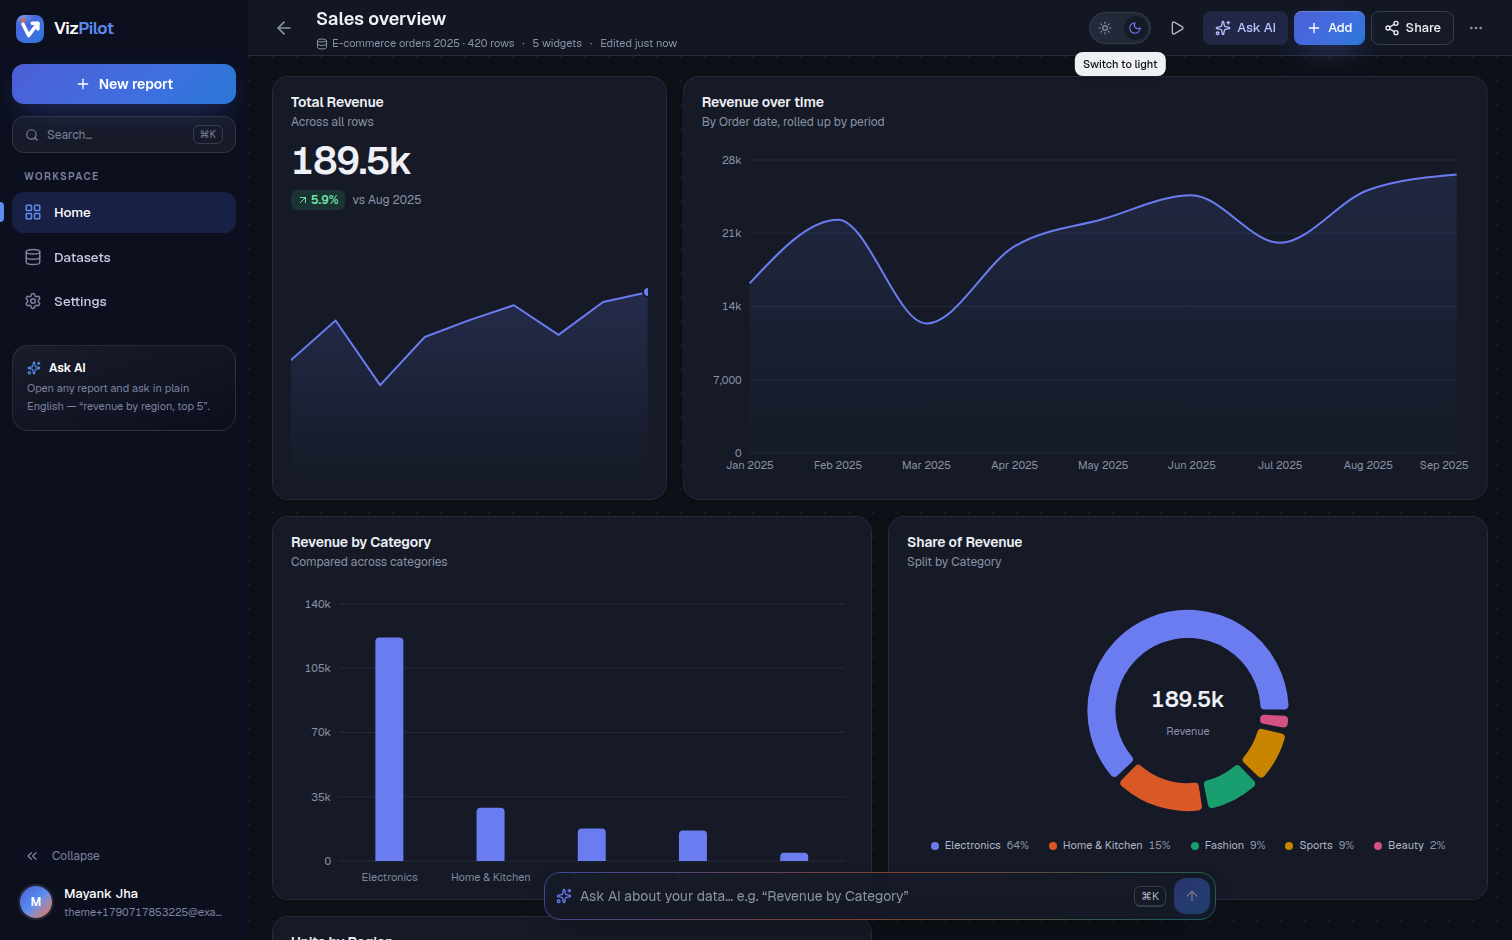
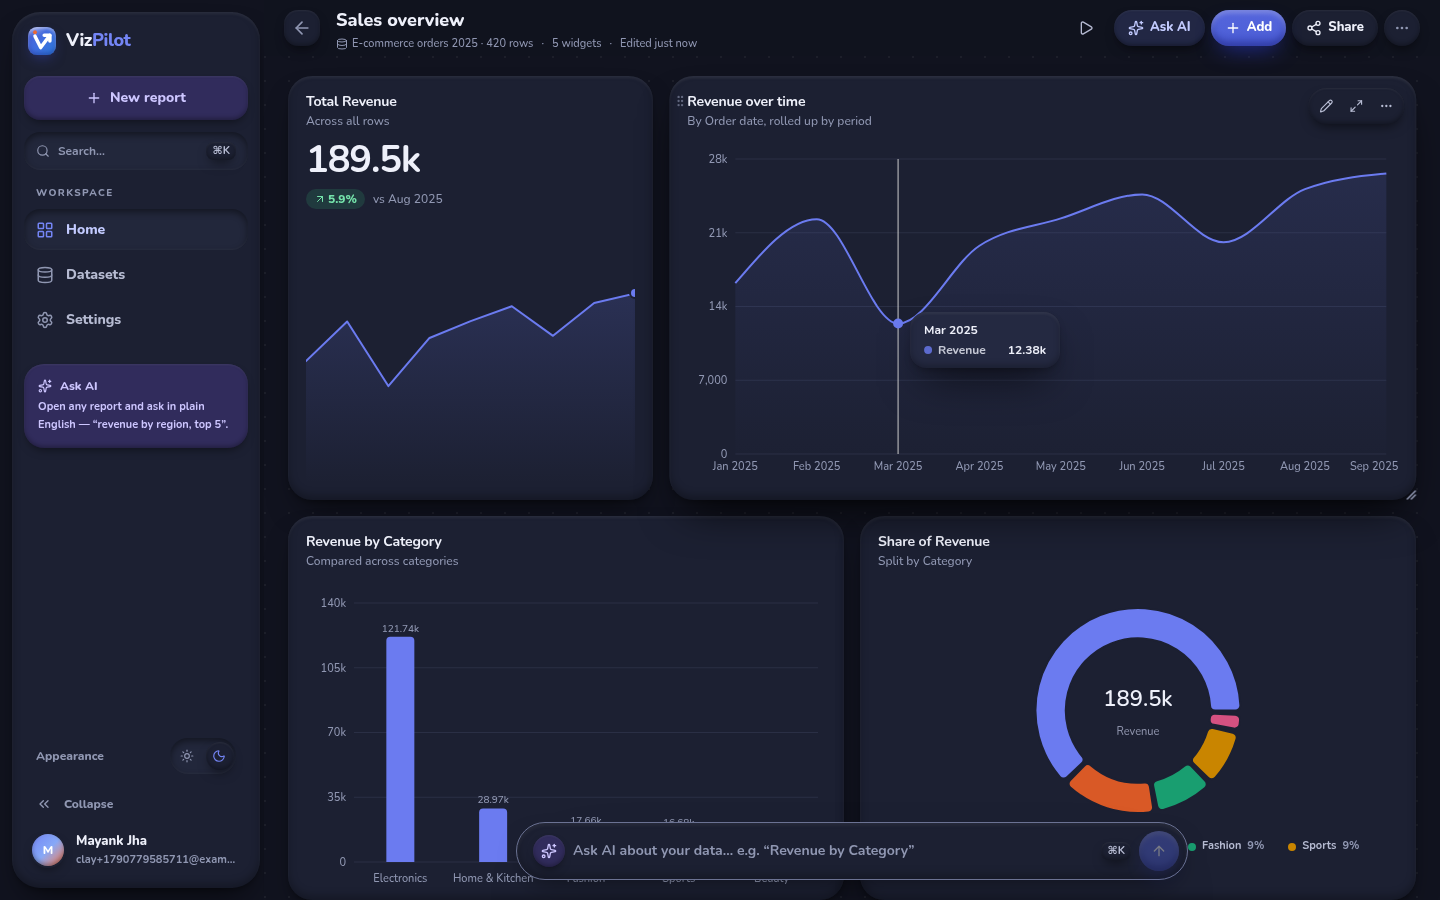
Update README for the clay design and app-wide dark mode
- New demo clips and light/dark screenshots in the clay design
- Documents the app theme (Light / Dark / System) vs the per-report viewer theme
- Adds a 'clay design system' section (shadow recipe, rules, tokens, accessibility)
- Updates the stack (Nunito, jose token check) and Vercel troubleshooting notes

diff --git a/README.md b/README.md
@@ -4,7 +4,7 @@
 
 **Ask your data a question. Watch the dashboard build itself.**
 
-Drop in a CSV, paste a table or pick a sample. VizPilot's AI analyst reads your rows, answers in plain English and builds interactive widgets you can drag, resize, restyle and share.
+Drop in a CSV, paste a table or pick a sample. VizPilot's AI analyst reads your rows, answers in plain English and builds interactive widgets you can drag, resize, restyle and share, all in a soft, tactile **claymorphism** design, in light and dark.
 
 **[🚀 Live demo → vizpilot-puce.vercel.app](https://vizpilot-puce.vercel.app)**
 
@@ -13,8 +13,9 @@ Drop in a CSV, paste a table or pick a sample. VizPilot's AI analyst reads your 
 ![Tailwind v4](https://img.shields.io/badge/Tailwind-v4-38bdf8?logo=tailwindcss&logoColor=white)
 ![MongoDB](https://img.shields.io/badge/MongoDB-Atlas-13aa52?logo=mongodb&logoColor=white)
 ![Firebase Auth](https://img.shields.io/badge/Firebase-Auth-ffca28?logo=firebase&logoColor=black)
+![WCAG AA](https://img.shields.io/badge/contrast-WCAG%20AA-4c5fd5)
 
-<img src="docs/media/landing.gif" alt="VizPilot landing page" width="900" />
+<img src="docs/media/landing.gif" alt="VizPilot landing page in the clay design" width="900" />
 
 </div>
 
@@ -24,33 +25,36 @@ Drop in a CSV, paste a table or pick a sample. VizPilot's AI analyst reads your 
 
 ### 1. A full dashboard in one click
 
-Pick a template (or upload your own file) and VizPilot lays out a starter dashboard: a KPI, a trend, and breakdowns.
+Pick a template (or upload your own file) and VizPilot lays out a starter dashboard: a KPI, a trend and breakdowns.
 
 <img src="docs/media/create.gif" alt="Creating a report from a template" width="900" />
 
 ### 2. Ask AI, get a chart
 
-Type a question into the bar at the bottom. The AI plans the analysis, computes the numbers from your real rows and shows **how it built the chart**. Follow up in plain words ("make it a bar chart", "top 5", "monthly") and add it to the dashboard.
+Type a question into the bar at the bottom. The AI plans the analysis, computes the numbers from your real rows and shows **how it built the chart**. Follow up in plain words ("make it a bar chart", "top 5", "monthly"), then add it to the dashboard.
 
 <img src="docs/media/ask.gif" alt="Ask AI building a chart and adding it to the dashboard" width="900" />
 
 ### 3. Drag and resize anything
 
-Grab a widget by its title to move it. Pull the right edge, bottom edge or corner to resize. Neighbours move out of the way and the layout saves on its own.
+Grab a widget by its title to move it. Pull the right edge, bottom edge or corner to resize. Neighbours move out of the way, the drop spot shows as a "pressed-in" slot, and the layout saves on its own.
 
 <img src="docs/media/drag.gif" alt="Dragging and resizing widgets" width="900" />
 
 ### 4. Chart studio
 
-Every widget opens in a full-screen studio: switch the chart type, change the palette, set the size on the dashboard, edit the data, or ask AI to change it for you.
+Every widget opens in a full-screen studio: switch the chart type, change the palette, set its size on the dashboard, edit the data, or ask AI to change it for you.
 
 <img src="docs/media/studio.gif" alt="Editing a chart in the chart studio" width="900" />
 
-### 5. Light, dark and present mode
+### 5. Dark mode for you, a separate theme for viewers
 
-One switch themes the whole report. Present mode gives a clean full-screen view for meetings.
+- **Your app theme** (Light / Dark / System) changes every page. Use the switch at the bottom of the sidebar or **Settings → Appearance**. *System* follows your computer and is the default.
+- **Each report's viewer theme** decides what people see on the shared link and in Present mode. Set it in **Share → Viewers see**. It never changes your own view.
 
-<img src="docs/media/theme.gif" alt="Switching between light and dark, then present mode" width="900" />
+<img src="docs/media/theme.gif" alt="Switching the whole app to dark, setting the viewer theme, then Present mode" width="900" />
+
+<img src="docs/media/share-viewer-theme.png" alt="Share dialog with the Viewers see: Light / Dark setting" width="900" />
 
 <table>
   <tr>
@@ -71,22 +75,43 @@ One switch themes the whole report. Present mode gives a clean full-screen view 
 | --- | --- |
 | **Bring any data** | CSV, TSV and Excel upload, paste from Sheets/Excel, a manual table, or 6 realistic samples (e-commerce, SaaS, marketing, support, web traffic, expenses). Column types are detected for you. |
 | **Ask AI** | Plain-English questions become charts, direct answers or insights. It shows each step (grouping, sum/average, filters, sort) so you can trust the numbers. |
-| **12 widget types** | Column, bar, stacked, line, area, pie, donut, scatter, KPI (with period-over-period change and a sparkline), table and text. |
-| **Free-form dashboard** | 12-column grid with drag, resize, auto-reflow and per-widget saved layout. Phones get a simple stacked view. |
+| **12 widget types** | Column, bar, stacked, line, area, pie, donut, scatter, KPI (with period-over-period change and a trend line), table and text. |
+| **Free-form dashboard** | 12-column grid with drag, resize, auto-reflow and a saved layout per widget. Phones get a simple stacked view. |
 | **Mix data sources** | Each widget can use a different dataset, so one report can combine several files. |
 | **Smart numbers** | Date roll-ups (day → year), count charts for text-only data, and averages (not sums) for things like scores, hours and rates. |
-| **Design** | Light and dark themes built on shared colour tokens. Chart palettes are checked for colour-blind separation and contrast (all text meets WCAG AA 4.5:1). |
-| **Share** | Public read-only link, present mode, PNG and CSV export. |
+| **Clay design** | Soft, puffy surfaces with hand-tuned shadows, pastel tints and a rounded font. Built as shared colour tokens, so every screen matches. |
+| **Themes** | App-wide Light / Dark / System (remembered, no white flash on load) plus a per-report theme for viewers. |
+| **Share** | Public read-only link, Present mode, PNG and CSV export. |
 | **Reliable AI** | 7 providers with automatic fallback. If every provider is down, a built-in rules engine still answers. |
+
+---
+
+## The clay design system
+
+VizPilot follows **claymorphism**: things look like soft, moulded clay sitting on a pastel desk. Claymorphism is great for friendly apps but can hurt dense data screens, so VizPilot follows one rule: **clay on the frame, flat on the data**. Cards, buttons, inputs and navigation are puffy; the inside of every chart stays flat and crisp.
+
+| Rule | How it's done |
+| --- | --- |
+| **3-layer clay shadow** | An outer drop shadow (tinted with the brand colour, never grey) + a soft inner shade at the bottom + a white inner highlight at the top, all lit from above |
+| **Pressed-in = selected** | Active nav items, chosen options and inputs look pushed *into* the clay (an inset "well") |
+| **Rounded everything** | Cards 24–30px, controls 16px+, chips fully round; Nunito (a rounded font) at chunky weights |
+| **Pastel tints** | Lavender, sky, mint, peach, lemon and pink, each paired with a dark text colour that passes contrast |
+| **One bright button per screen** | Only the main action uses the saturated brand clay; everything else is soft |
+| **Dark clay** | Re-designed rather than inverted: a deep indigo background, lighter moulded surfaces and faint highlights (a bright highlight would look like a grey smudge on dark) |
+| **Accessible** | All text ≥ 4.5:1 contrast, input edges ≥ 3:1, solid focus rings, checked with an axe scan in both themes |
+
+All of it lives as CSS variables in [`src/app/globals.css`](src/app/globals.css) (`--card-shadow`, `--clay-inset`, `--clay-brand`, `--clay-*` tints) with helper classes `.clay`, `.clay-inset`, `.clay-press`, `.clay-brand`, `.clay-tile` and `.clay-blob`.
+
+---
 
 ## Tech stack
 
 | Layer | Choice |
 | --- | --- |
 | App | Next.js 16 (App Router, TypeScript), React 19 |
-| Styling | Tailwind CSS v4 with theme tokens (`src/app/globals.css`) |
+| Styling | Tailwind CSS v4 + clay design tokens; Nunito via `@fontsource-variable/nunito` (no font request at runtime) |
 | Charts | Recharts 3 |
-| Auth | Firebase Authentication (email/password + Google). ID tokens are checked on the server against Google's public keys (with `jose`). |
+| Auth | Firebase Authentication (email/password + Google). The server checks each login token against Google's public keys with `jose`, so it runs on Vercel with no service-account key. |
 | Database | MongoDB Atlas via Mongoose (`users`, `datasets`, `reports`, `charts`) |
 | AI | Groq → Gemini → Mistral → GitHub Models → OpenRouter → Z.ai → Hugging Face |
 
@@ -146,11 +171,20 @@ FIREBASE_AUTH_EMULATOR_HOST=127.0.0.1:9099
 
 1. **Import the repo** at [vercel.com/new](https://vercel.com/new). Vercel detects Next.js, so no build settings are needed.
 2. **Add the environment variables** from the table above. Tip: you can paste your whole `.env` into the first field and Vercel splits it into rows.
-3. **Deploy.**
-4. **Allow the new domain in Firebase:** Authentication → Settings → Authorized domains → add `your-app.vercel.app`. Without this, sign-in with Google fails.
-5. **Allow Vercel in MongoDB Atlas:** Network Access → add `0.0.0.0/0`. Vercel's servers don't have fixed IP addresses, so Atlas has to accept connections from anywhere (the database password still protects it).
+3. **Deploy.** After that, every push to `main` redeploys on its own.
+4. **Allow the new domain in Firebase:** Authentication → Settings → Authorized domains → add `your-app.vercel.app`. Without this, login shows `auth/unauthorized-domain`.
+5. **Allow Vercel in MongoDB Atlas:** Network Access → Add IP Address → **Allow access from anywhere** (`0.0.0.0/0`). Vercel's servers don't have fixed IP addresses; your database password still protects it. Without this, login shows "Could not start your session".
 
 ---
+
+<details>
+<summary><b>How the themes work</b></summary>
+
+- `src/components/theme/ThemeProvider.tsx` keeps the app theme (`light` / `dark` / `system`) in this browser and sets `data-theme` on `<html>`, so every clay token switches at once.
+- `src/components/theme/boot.ts` is a tiny script in `<head>` that applies the saved theme **before the first paint**, so a dark-mode user never sees a white flash.
+- A report's `theme` field is only used by the public share page and Present mode; both set their own `data-theme`, so viewers see the report the way you chose.
+
+</details>
 
 <details>
 <summary><b>How the AI fallback works</b></summary>
@@ -160,7 +194,7 @@ Code lives in `src/lib/ai/`.
 - `providers.ts`: one adapter per provider (OpenAI-compatible endpoints + Gemini). On start it reads each provider's live model list and picks the best available model, so retired model names don't break it.
 - `client.ts`: tries providers in order. Each failure is sorted into a type (`auth`, `quota`, `model_unavailable`, `rate_limit`, `server`, `timeout`, `network`, `bad_response`) and that provider rests for a while (a cooldown), so the next request skips straight to a healthy one. It also retries without settings a model rejects, and retries "thinking" models that return empty replies.
 - `analyst.ts`: the Ask AI engine. It gives the model a short brief of your dataset, asks it for a plan (chart / answer / insights), checks the plan against your real columns, then computes every number from your rows. The model never makes up numbers.
-- **Settings → AI providers** shows each provider's live status, lets you test them and clear cooldowns.
+- **Settings → AI providers** shows each provider's live status and lets you test them and clear cooldowns.
 
 </details>
 
@@ -178,17 +212,21 @@ src/
       reports/new/              Add data → set up report
       reports/[id]/             Report editor: grid, chart studio, Ask AI, present, share
       datasets/                 Dataset list + editable table
-      settings/                 Profile, AI provider status
-    share/[shareId]/            Public read-only report
-    api/                        REST routes (all check the Firebase ID token)
-  components/                   UI, charts (grid, widget, studio), data, reports, layout
+      settings/                 Profile, appearance, AI providers
+    share/[shareId]/            Public read-only report (uses the report's viewer theme)
+    api/                        REST routes (all check the Firebase login token)
+    globals.css                 Clay design tokens (light + dark) and helper classes
+  components/
+    theme/                      App theme provider, sidebar switch, Settings picker, no-flash boot script
+    charts/                     Grid, widget, chart renderer, chart studio
+    layout/  ui/  data/  reports/  ai/  auth/  marketing/
   lib/
     ai/                         Providers, fallback client, analyst
     charts/                     Types, palettes, suggestions, natural-language rules
     data/                       Parsing, aggregation, dates, samples
     layout/grid.ts              Dashboard grid maths (move, resize, compact)
     models/                     Mongoose models
-    firebase/                   Client SDK + server verification
+    firebase/                   Client SDK + server-side token check (jose)
 ```
 
 </details>
@@ -202,7 +240,7 @@ src/
 | GET / POST | `/api/datasets` | List / create datasets |
 | GET / PATCH / DELETE | `/api/datasets/:id` | Read / edit / delete (blocked while a widget uses it) |
 | GET / POST | `/api/reports` | List with previews / create (optionally auto-build widgets) |
-| GET / PATCH / DELETE | `/api/reports/:id` | Read / update (title, theme, public, `layouts`) / delete |
+| GET / PATCH / DELETE | `/api/reports/:id` | Read / update (title, viewer `theme`, public, `layouts`) / delete |
 | POST | `/api/reports/:id/duplicate` | Copy a report and its widgets |
 | POST | `/api/charts` | Add a widget |
 | PATCH / POST / DELETE | `/api/charts/:id` | Update / duplicate / delete a widget |
